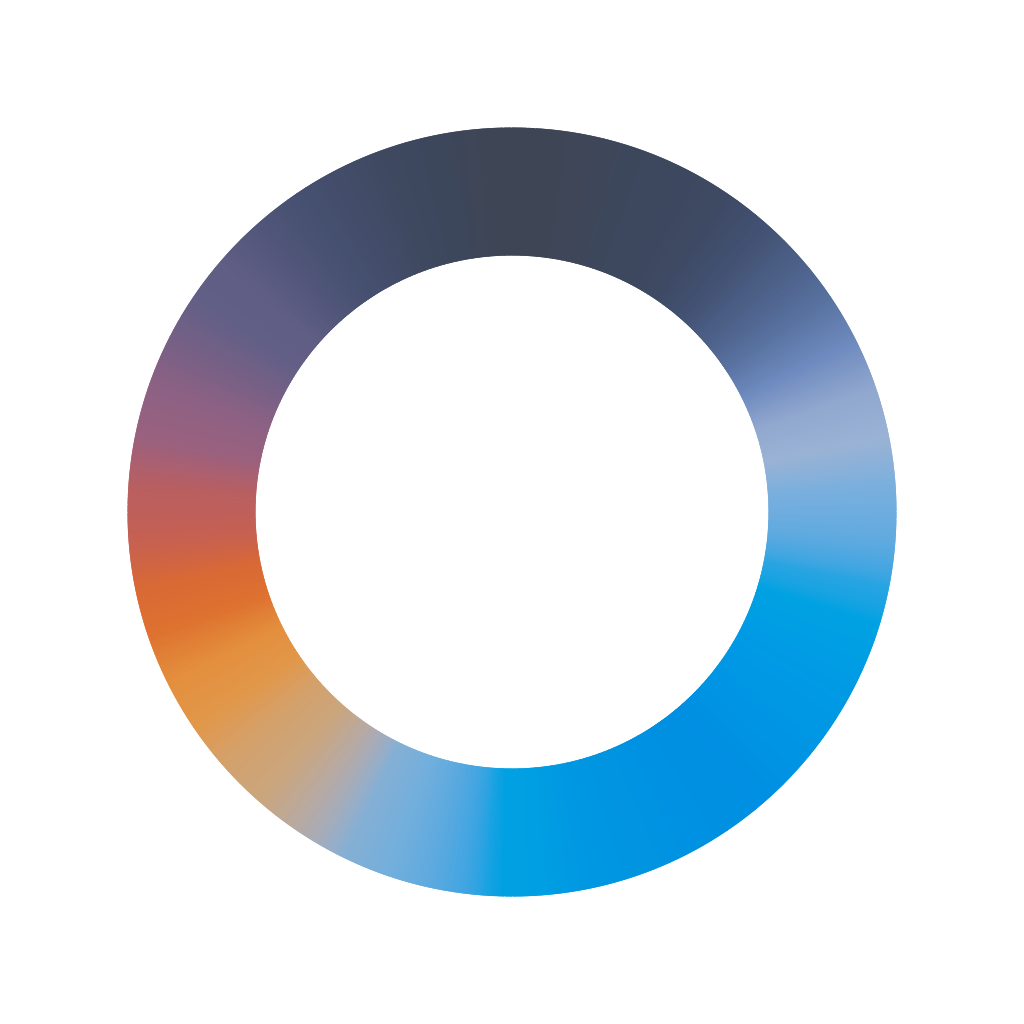
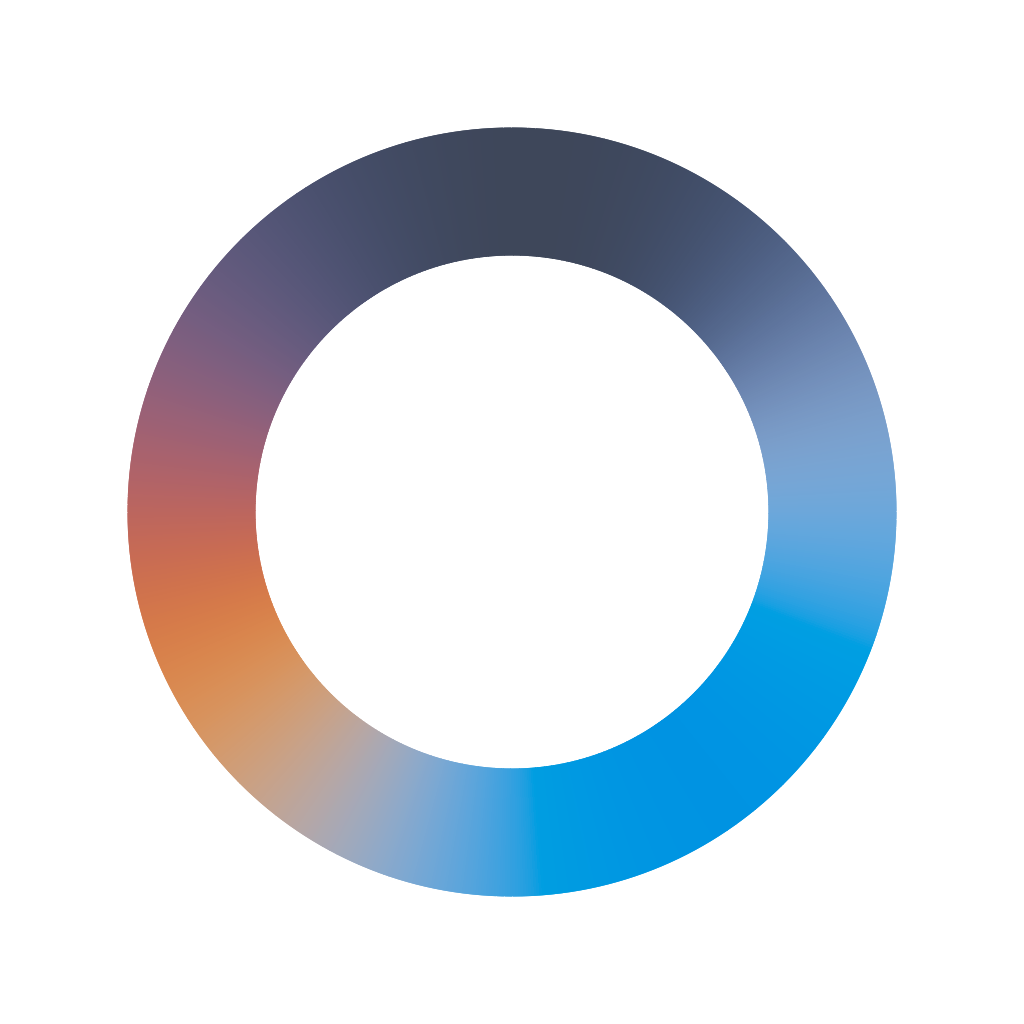
fix(아이콘): 링을 따라 색을 부드럽게 — 색이 꺾이던 자리를 둥글게
48칸 사이를 직선으로 잇던 색이 새벽 · 노을처럼 빨리 바뀌는 자리에서 각지게 꺾였다.
링을 따라 둘레의 4% 폭 가우시안으로 흐려 꺾임만 지우고 색의 시각은 그대로 둔다.

diff --git a/Tools/MakeIcon.swift b/Tools/MakeIcon.swift
@@ -122,6 +122,30 @@ func ringLab(at fraction: Double) -> Lab {
     return Lab(l: a.l + (b.l - a.l) * t, a: a.a + (b.a - a.a) * t, b: a.b + (b.b - a.b) * t)
 }
 
+/// The ring's colours, walked once and softened along the ring. Between slot
+/// centres the colour runs in straight lines, and where the day turns quickly —
+/// dawn, the last of the sunset — those lines meet at a visible crease. A
+/// circular Gaussian, a few percent of the way round wide, rounds the creases
+/// off without moving any colour to another hour.
+func smoothRing(count: Int, sigma: Double) -> [Lab] {
+    let raw = (0..<count).map { ringLab(at: (Double($0) + 0.5) / Double(count)) }
+    let spread = sigma * Double(count)
+    guard spread > 0 else { return raw }
+    let reach = Int(ceil(spread * 3))
+    let weights = (-reach...reach).map { exp(-Double($0 * $0) / (2 * spread * spread)) }
+    let total = weights.reduce(0, +)
+    return (0..<count).map { index in
+        var sum = Lab(l: 0, a: 0, b: 0)
+        for (offset, weight) in zip(-reach...reach, weights) {
+            let c = raw[((index + offset) % count + count) % count]
+            sum.l += c.l * weight; sum.a += c.a * weight; sum.b += c.b * weight
+        }
+        return Lab(l: sum.l / total, a: sum.a / total, b: sum.b / total)
+    }
+}
+
+let ringSmoothing = 0.04
+
 // MARK: - Drawing
 
 let side = 1024.0
@@ -181,6 +205,7 @@ func drawRing(lift: Double, in context: CGContext) {
     let radius = side * 0.313
     let width = side * 0.125
     let segments = 900
+    let colours = smoothRing(count: segments, sigma: ringSmoothing)
 
     context.saveGState()
     context.clip(to: CGRect(x: 0, y: 0, width: side, height: side), mask: ringMask(
@@ -197,7 +222,7 @@ func drawRing(lift: Double, in context: CGContext) {
         let start = .pi / 2 - from * 2 * .pi
         let end = .pi / 2 - (to * 2 * .pi + 0.004)
 
-        var colour = ringLab(at: (from + to) / 2)
+        var colour = colours[index]
         // Lifting lightness alone turns midnight grey — it had little chroma to
         // begin with. Scale the chroma by the same lift and the night arc stays
         // a night sky.
